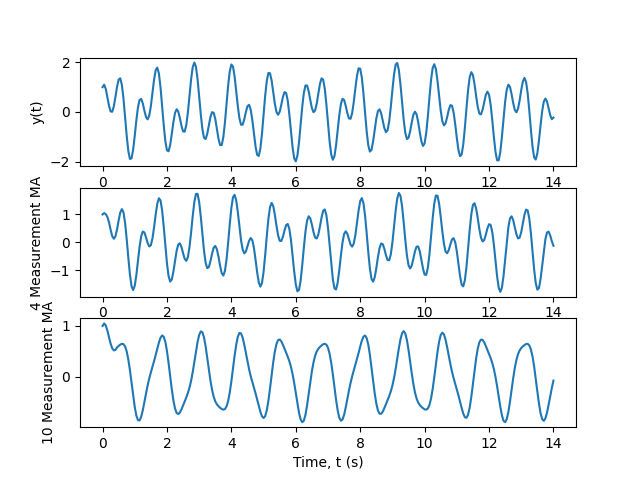
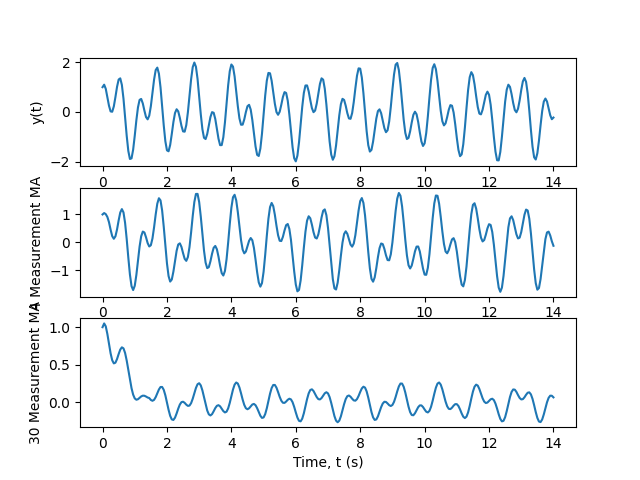
fixed mistake for 10MA vs 30MA

Changed region(s): [[0.1562, 0.6875, 0.875, 0.875], [0.0312, 0.625, 0.125, 0.9375]]

diff --git a/Assignment 2/q1b.py b/Assignment 2/q1b.py
@@ -37,9 +37,9 @@ plt.xlabel('Time, t (s)')
 plt.ylabel('4 Measurement MA')
 
 plt.subplot(3, 1, 3)
-plt.plot(df['time (t)'], df['10MA'])
+plt.plot(df['time (t)'], df['30MA'])
 plt.xlabel('Time, t (s)')
-plt.ylabel('10 Measurement MA')
+plt.ylabel('30 Measurement MA')
 
-# plt.savefig('Assignment 2\Q1b - Graph')
+plt.savefig('Assignment 2\Q1b - Graph')
 plt.show()
